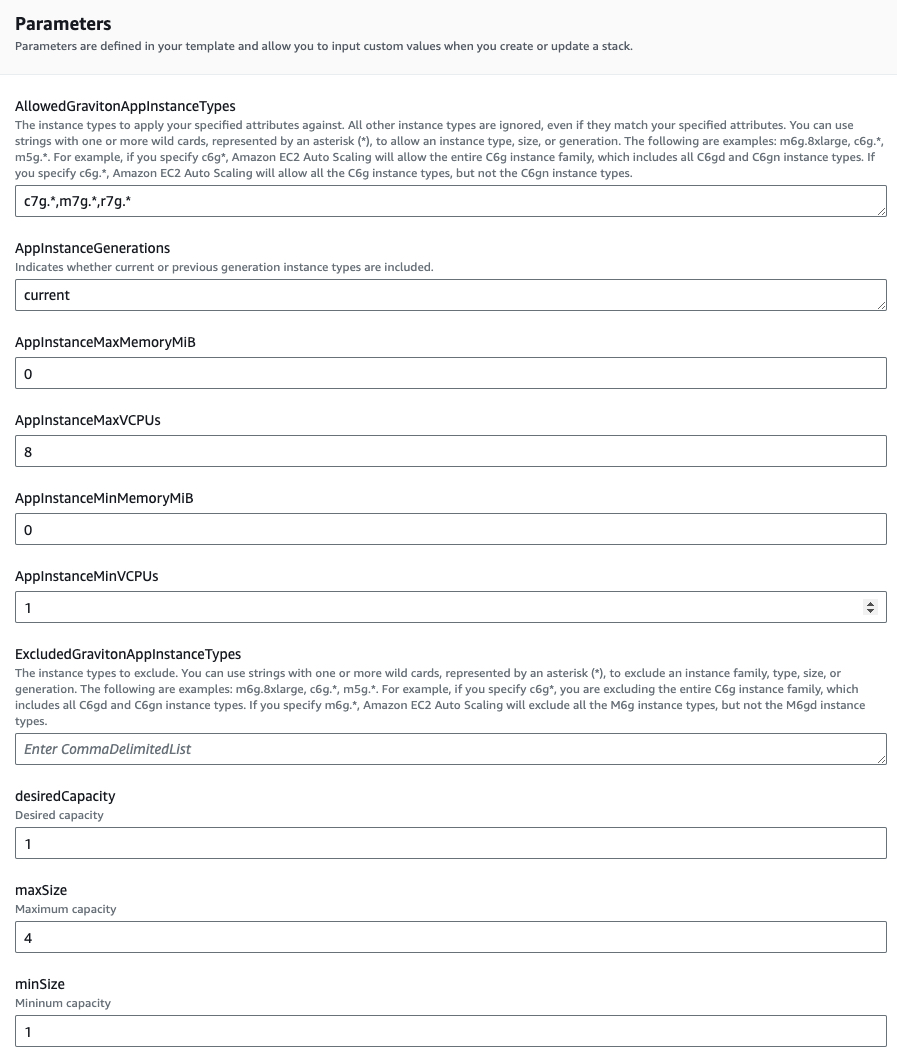
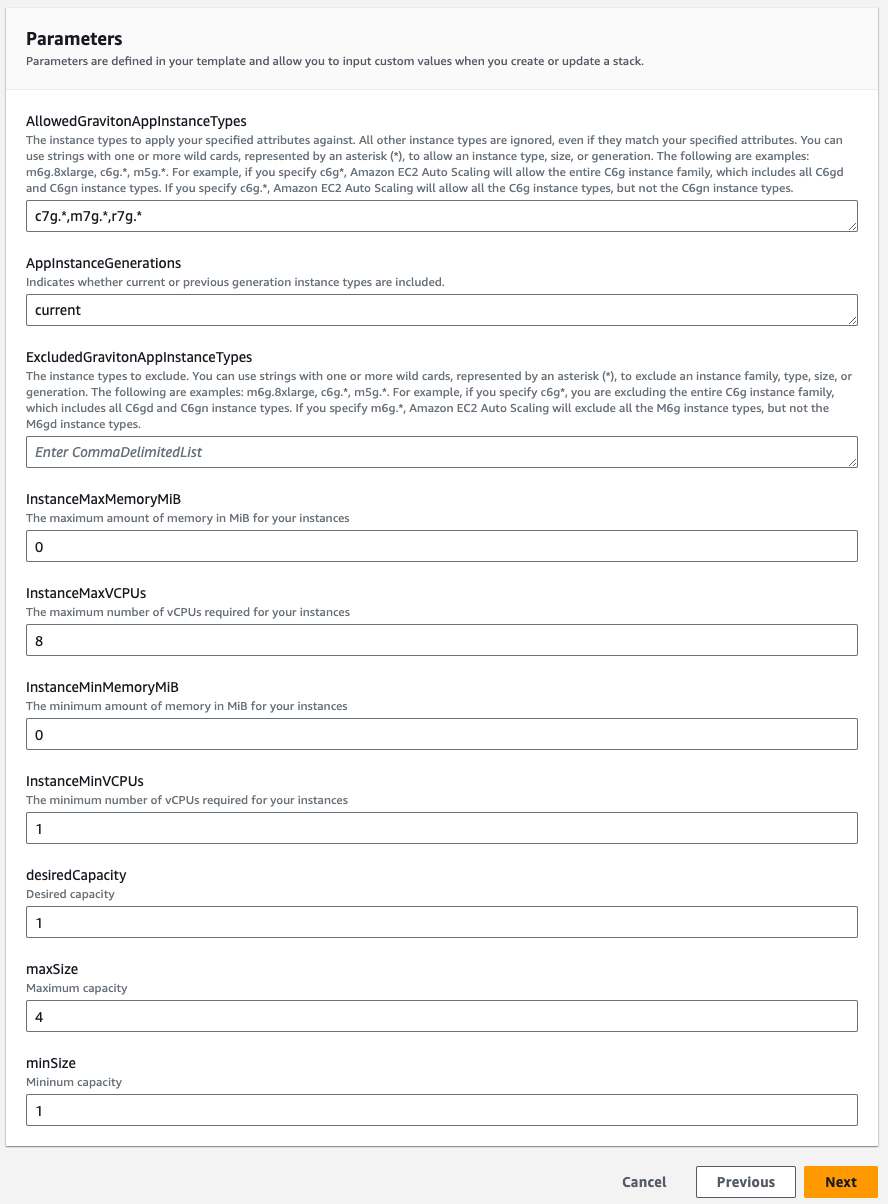
Image updates

diff --git a/README.md b/README.md
@@ -42,6 +42,15 @@ You can deploy the resources using the default parameters or modify them accordi
 ## Step 3 - Testing the solution
 The stack includes an Amazon Simple Storage Service (S3) bucket with a CloudWatch trigger to push notifications to an SQS queue after an image is uploaded to the Amazon S3 bucket. The scope is to convert the `jpg` image to `pdf`. Once the message is in the queue, it is picked up by the application running on the EC2 instances in the Auto Scaling group. The EC2 instances are using sustainable and efficient Graviton processors. Moreover, this setup will leverage EC2 Spot instances. The image is converted to `pdf`, and the instance is protected from scale-in for as long as it has an active processing job. After the workload has been successful processed, the Auto Scaling group will reduce the number of workers, thus reducing energy waste, lower costs, and minimize environmental footprints.
 
+We will use the `ApproximateNumberOfMessagesVisible` CloudWatch metric of the `AWS/SQS`
+namespace to take a scaling out/in decision based on the number of messages to be processed. In the following screenshot you can see how uploading multiple photos in the S3 bucket has triggered the metric alarm to transition from *Insufficient data* to *In alarm* and finally to *OK* as the workload has been processed.
+
+![ApproximateNumberOfMessagesVisible](/images/ApproximateNumberOfMessagesVisible.jpg)
+
+We will continue to implement a sustainable approach by deploying our AWS Graviton based queue workers using [attribute-based instance type selection](https://docs.aws.amazon.com/AWSEC2/latest/UserGuide/ec2-fleet-attribute-based-instance-type-selection.html) - the amount of memory and computing power that we need for the workload planned to run on the instances. Among others, this strategy has the advantage of simplifying the instance type selection process. Notice the `CpuManufacturers` option. Moreover, we will utilize conditions like `AllowedInstanceTypes` and `ExcludedInstanceTypes` to select or avoid entire instance families. This is implemented in the CloudFormation template included in this repository.
+
+![InstanceRequirements](/images/InstanceRequirements.jpg)
+
 ## Step 4 - Conclusions and cleanup
 This workshop demonstrates how to architect fault tolerant worker tiers in a sustainable way. If your queue worker tiers and workload needs are fault tolerant, you can increase your application’s efficiency and sustainability by implementing a queue-driven design. The main best practices covered in this lab are:
 
